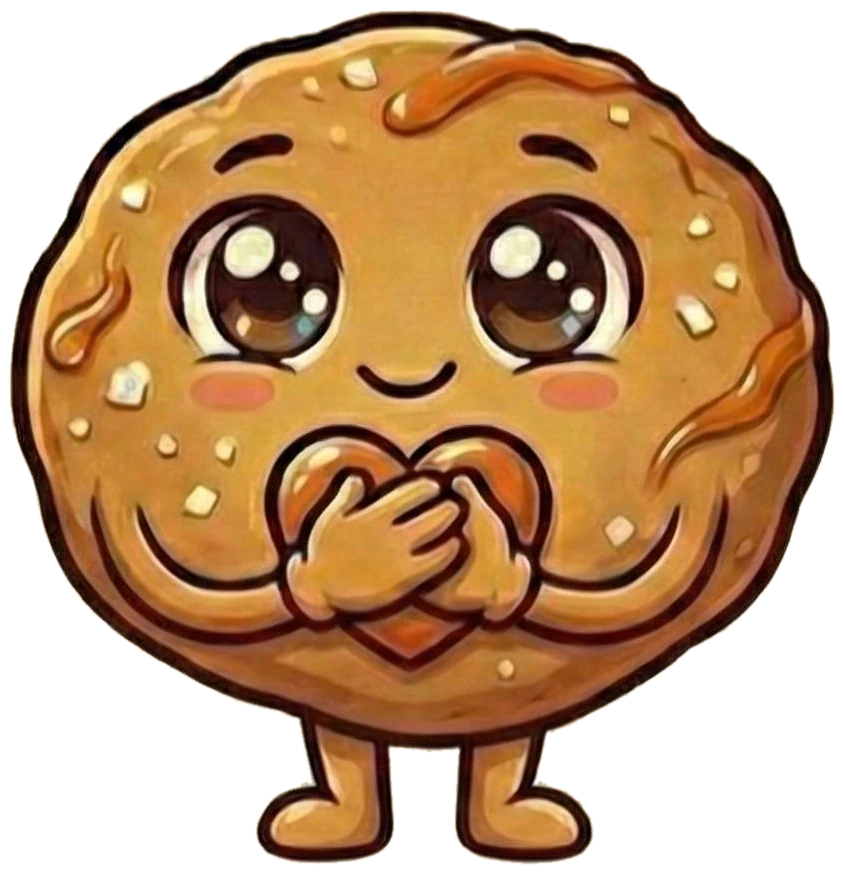
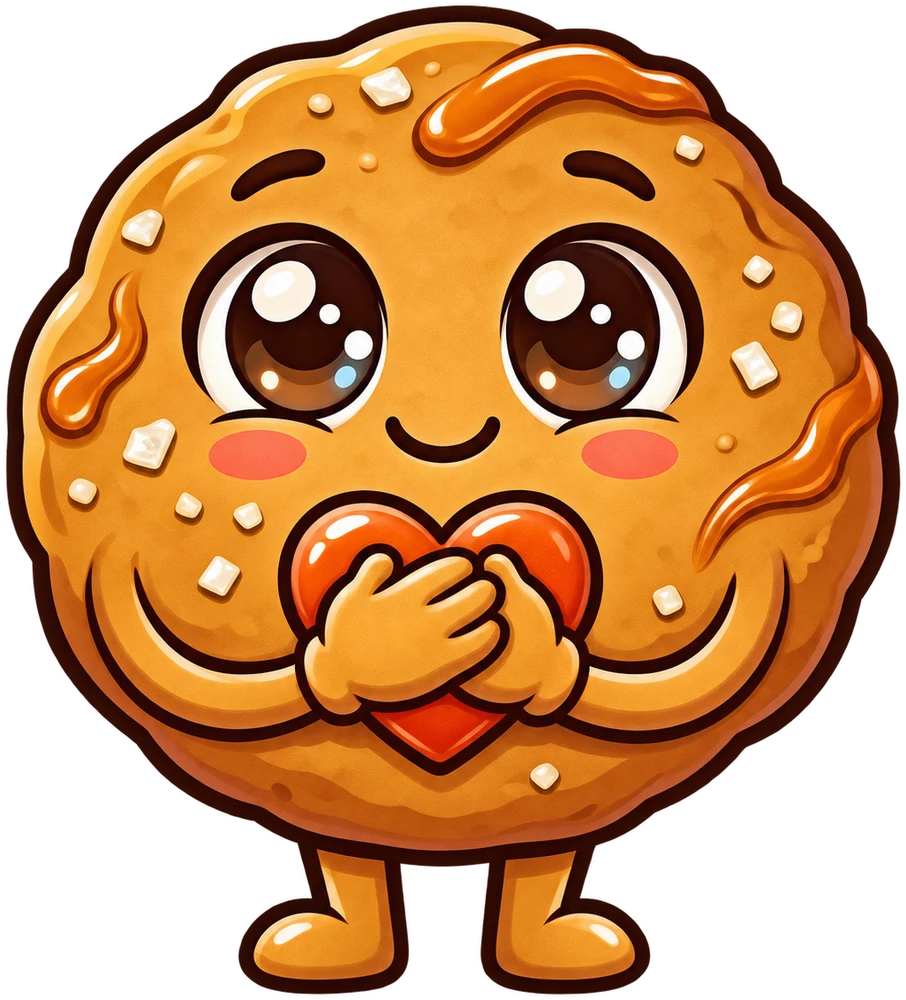
New Sweetheart picture; remove the last-updated line from the footer

diff --git a/js/app.js b/js/app.js
@@ -961,26 +961,6 @@
     });
   }
 
-  /* ---------- "last updated" in the footer ---------- */
-
-  /* The browser knows when the server last changed this page. On GitHub Pages
-     that is the moment the site was published, so nothing has to be typed in. */
-  function renderUpdated() {
-    var when = new Date(document.lastModified);
-    if (isNaN(when.getTime())) return;
-    var text;
-    try {
-      text = when.toLocaleString("de-CH", { day: "numeric", month: "long", year: "numeric", hour: "2-digit", minute: "2-digit" }) + " Uhr";
-    } catch (err) {
-      text = when.toLocaleString();
-    }
-    var time = $("fuss-stand-zeit");
-    if (!time || !$("fuss-stand")) return;   // an older copy of the page from the browser cache
-    time.textContent = text;
-    time.setAttribute("datetime", when.toISOString());
-    $("fuss-stand").hidden = false;
-  }
-
   /* ---------- start ---------- */
 
   function start() {
@@ -996,7 +976,6 @@
       $("aktion").textContent = "Jeder " + FREE_EVERY + ". Cookie ist gratis: " + (FREE_EVERY - 1) + " bezahlen, " + FREE_EVERY + " bekommen.";
       $("aktion").hidden = false;
     }
-    renderUpdated();
     loadRunFrames();
     renderAll();
     bindEvents();

diff --git a/css/styles.css b/css/styles.css
@@ -402,7 +402,6 @@ main:focus-visible, section:focus-visible, .card:focus-visible, h2:focus-visible
 .foot__inner { display: flex; flex-direction: column; gap: 2px; }
 .foot__name { font-size: 1.5rem; letter-spacing: 0.04em; }
 .foot__test { margin-top: 10px; font-size: 0.9rem; opacity: 0.85; }
-.foot__updated { margin-top: 10px; font-size: 0.9rem; opacity: 0.85; font-variant-numeric: tabular-nums; }
 
 /* ---------- cart drawer and order pop-up ---------- */
 

diff --git a/index.html b/index.html
@@ -92,7 +92,6 @@
     <p class="foot__name">DARLINGS</p>
     <p>Cookies mit eigenem Kopf.</p>
     <p class="foot__test" id="fuss-testhinweis" hidden>Diese Seite läuft im Testmodus.</p>
-    <p class="foot__updated" id="fuss-stand" hidden>Zuletzt aktualisiert: <time id="fuss-stand-zeit"></time></p>
   </div>
 </footer>
 
